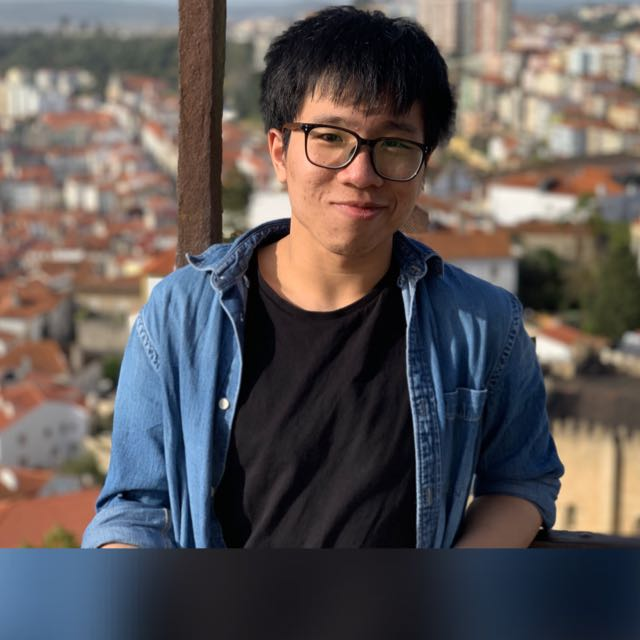
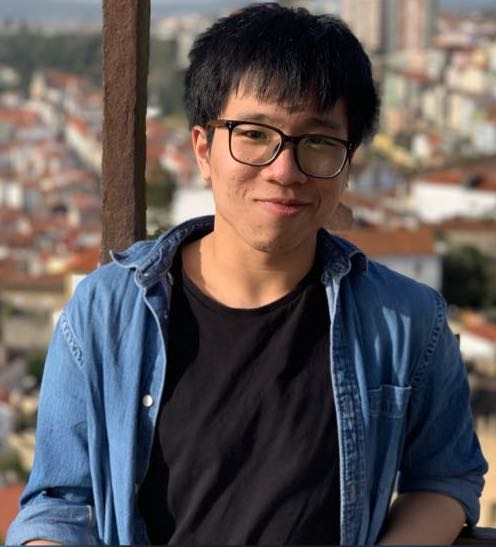
Edit Header.html

diff --git a/_includes/header.html b/_includes/header.html
@@ -1,10 +1,10 @@
 <header>
     <div class="header-content">
         <div class="header-content-inner">
-            <img class="img-responsive" src="img/profilepic.jpeg" alt="">
-            <h1>My name is Wei Tat Lee</h1>
+            <img class="img-responsive img-circle" src="img/profilepic.jpeg" alt="" style="max-width: 15%;display: inline">
+            <h1>Wei Tat Lee</h1>
             <hr>
-            <p>Graduating Fall 2019 from University of Edinburgh, MSc Computer Science </p>
+            <p>University of Edinburgh ● MSc Computer Science</p>
             <a href="#about" class="btn btn-primary btn-xl page-scroll">Find Out More</a>
         </div>
     </div>
